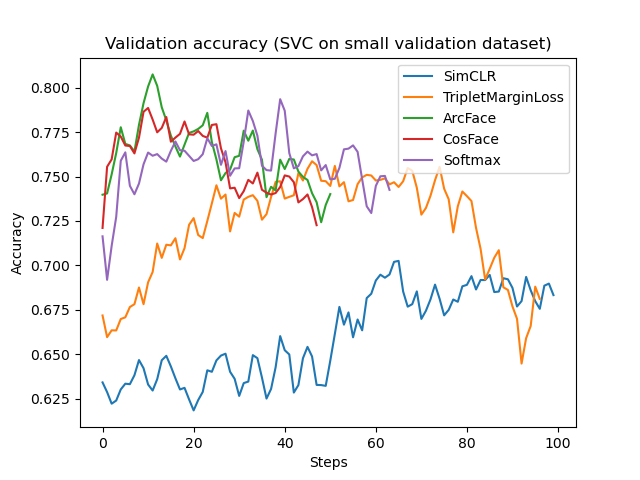
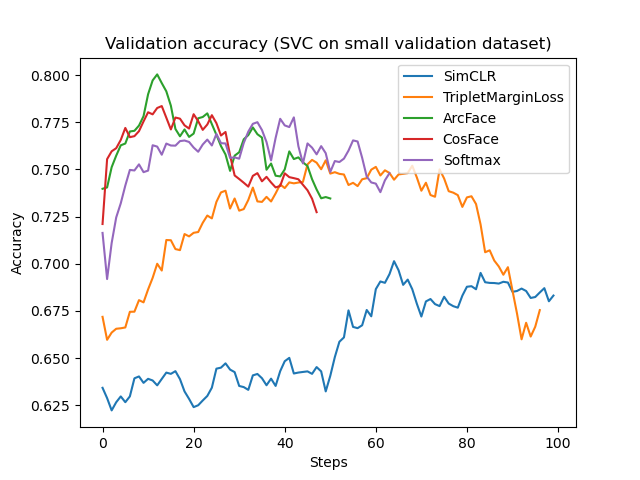
updated plots

diff --git a/generate_final_plots.py b/generate_final_plots.py
@@ -12,7 +12,7 @@ for model in models.keys():
     train_history_filename = join(figspath, "train_history.pkl")
     accuracies_filename = join(figspath, "svc_accuracies.pkl")
     if isfile(train_history_filename):
-        val_accuracies[model] = pd.read_pickle(train_history_filename)["val_accuracy"].rolling(3, min_periods=1).mean()
+        val_accuracies[model] = pd.read_pickle(train_history_filename)["val_accuracy"].rolling(5, min_periods=1).mean()
     if isfile(accuracies_filename):
         test_accuracies[model] = pd.read_pickle(accuracies_filename)["accuracy"]
 
